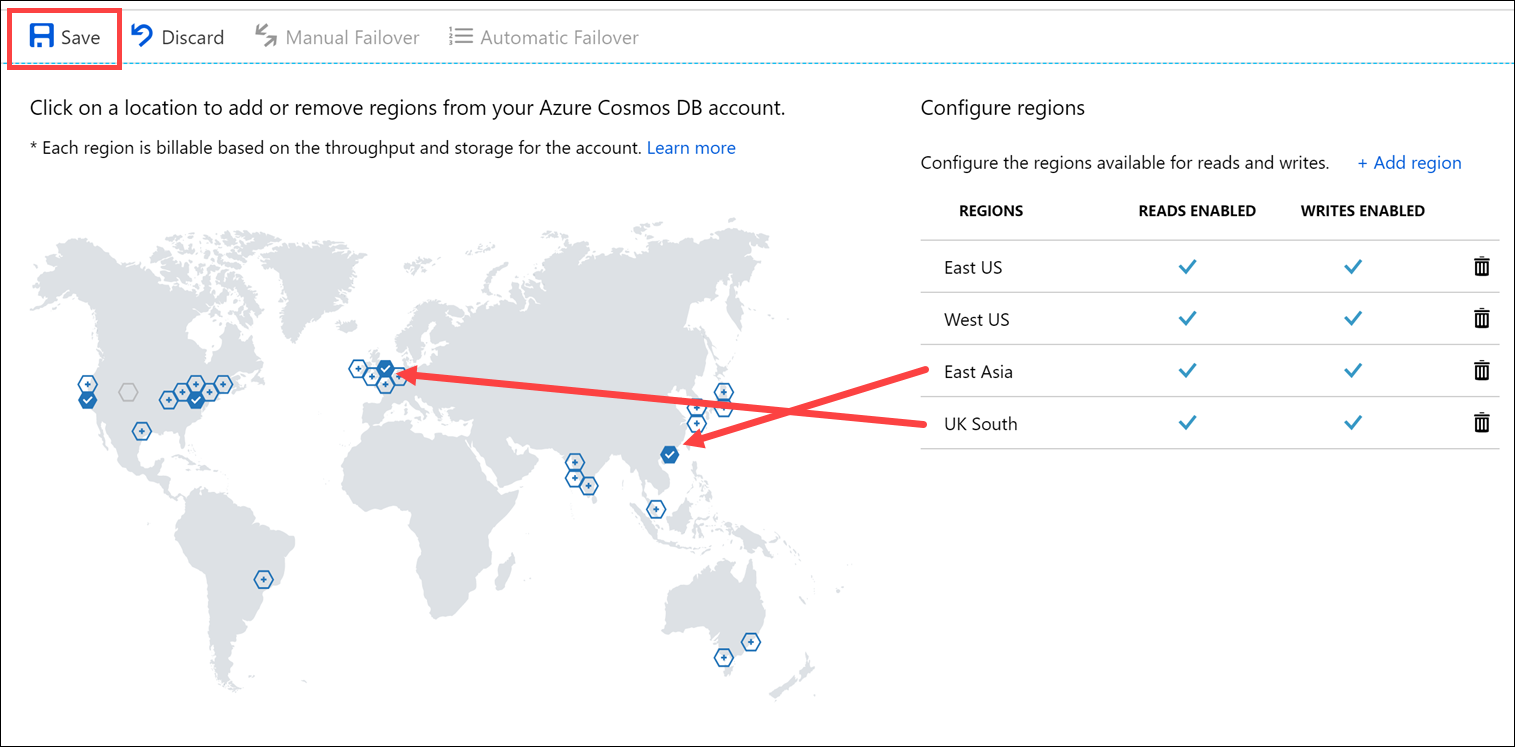
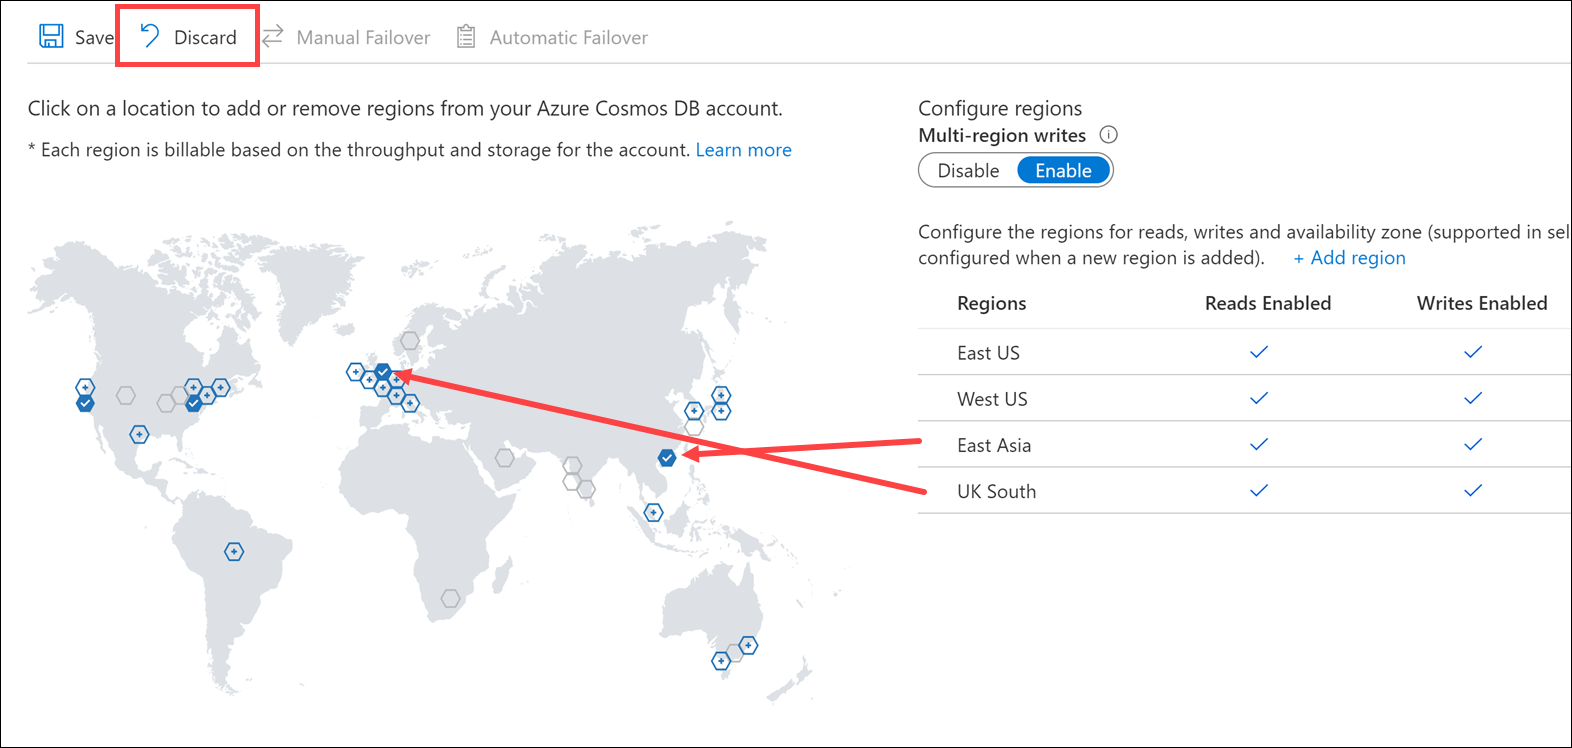
Pipeline section added

diff --git a/Hands-on lab/HOL step-by step - Cosmos DB real-time advanced analytics.md b/Hands-on lab/HOL step-by step - Cosmos DB real-time advanced analytics.md
@@ -50,10 +50,14 @@ Microsoft and the trademarks listed at <https://www.microsoft.com/en-us/legal/in
     - [Task 3: View the deployed model endpoint](#task-3-view-the-deployed-model-endpoint)
     - [Task 4: Test the predictive maintenance model](#task-4-test-the-predictive-maintenance-model)
     - [Task 5: Prepare batch scoring model](#task-5-prepare-batch-scoring-model)
-  - [Exercise 4: Scaling globally](#exercise-4-scaling-globally)
+  - [Exercise 4: Create Synapse Linked Services and copy pipeline](#exercise-4-create-synapse-linked-services-and-copy-pipeline)
+    - [Task 1: Open Synapse Studio](#task-1-open-synapse-studio)
+    - [Task 2: Create Azure Cosmos DB linked service](#task-2-create-azure-cosmos-db-linked-service)
+    - [Task 3: Create public data linked service](#task-3-create-public-data-linked-service)
+    - [Task 4: Create copy pipeline](#task-4-create-copy-pipeline)
+  - [Exercise 5: Scaling globally](#exercise-5-scaling-globally)
     - [Task 1: Distributing batch scored data globally using Cosmos DB](#task-1-distributing-batch-scored-data-globally-using-cosmos-db)
-    - [Task 2: Using an Azure Databricks job to batch score transactions on a schedule](#task-2-using-an-azure-databricks-job-to-batch-score-transactions-on-a-schedule)
-  - [Exercise 5: Reporting](#exercise-5-reporting)
+  - [Exercise 6: Reporting](#exercise-6-reporting)
     - [Task 1: Utilizing Power BI to summarize and visualize global fraud trends](#task-1-utilizing-power-bi-to-summarize-and-visualize-global-fraud-trends)
     - [Task 2: Creating dashboards in Azure Databricks](#task-2-creating-dashboards-in-azure-databricks)
   - [After the hands-on lab](#after-the-hands-on-lab)
@@ -474,31 +478,31 @@ In this exercise, you will use the data generator to send data to both Event Hub
 
     ![UK South is selected and highlighted in the location dropdown list.](media/add-region-uk-south.png 'UK South')
 
-34. Notice that the two new regions are highlighted on the world map, and each have both reads and writes enabled. Congratulations! You completed all the steps to write to and read from multiple regions around the world with Cosmos DB! Finally, select **Save** to save your changes.
+34. Notice that the two new regions are highlighted on the world map, and each have both reads and writes enabled. Congratulations! You completed all the steps to write to and read from multiple regions around the world with Cosmos DB! Finally, select **Discard** to discard your changes.
 
     ![Map showing newly added regions for Cosmos DB.](media/replicate-data-globally-map.png 'Cosmos DB region map')
 
-    > **Note**: You may have to wait several minutes for the change to take effect. In the meantime, you can feel free to continue and run the transaction generator. Cosmos DB can still ingest data as regions are being added. There should be no performance impact during this time or after the provisioning is complete.
+    > **Note**: We **do not** need to add the two new regions to complete this lab. However, if you do decide to save the changes, you may have to wait several minutes for the change to take effect. In the meantime, you can feel free to continue and run the transaction generator. Cosmos DB can still ingest data as regions are being added. There should be no performance impact during this time or after the provisioning is complete.
 
 35. Open Visual Studio and debug the TransactionGenerator project. Let it run for at least 2 minutes, or long enough to send 10,000 messages.
 
     ![The TransactionGenerator console shows event hubs overall running slower than Cosmos DB.](media/console-output-event-hubs-slower.png 'Console output')
 
-    Results will vary depending on machine specifications and network speeds, but overall, it will likely take longer to send the data to the three Event Hub instances than to Cosmos DB. You may also notice the Event Hubs pending queue filling up quite a bit more. Also notice that you did not have to make any code changes to write to the additional Cosmos DB regions.
+    Results will vary depending on machine specifications and network speeds, but overall, it will likely take longer to send the data to the three Event Hub instances than to Azure Cosmos DB. You may also notice the Event Hubs pending queue filling up quite a bit more. Also notice that you did not have to make any code changes to write to the additional Cosmos DB regions.
 
 36. Open each of the three Event Hubs namespaces you have created for this lab. You should see an equal number of messages that were sent to each. The graph is shown on the bottom of the Overview blade. Select the **Messages** metric above the graph to view the number of messages received. The screenshot below is of the UK South Event Hub:
 
     ![The Messages metric is selected for the UK South Event Hubs namespace.](media/uk-south-metrics.png 'Event Hubs Overview blade')
 
-37. View the data that was saved to Cosmos DB. Navigate to the Cosmos DB account for this lab in the Azure portal. Select **Data Explorer** on the left-hand menu. Expand the **Woodgrove** database and **transactions** collection, then select **Documents**. Select one of the documents from the list to view it. If you selected a more recently added document, notice that it contains a `ttl` value of 5,184,000 seconds, or 60 days. Also, there is a `collectionType` value of "Transaction". This allows consumers to query documents stored within the collection by the type. This is needed because a collection can contain any number of document types within, since it does not enforce any type of schema.
+37. View the data that was saved to Azure Cosmos DB. Navigate to the Azure Cosmos DB account for this lab in the Azure portal. Select **Data Explorer** on the left-hand menu. Expand the **Woodgrove** database and **transactions** collection, then select **Documents**. Select one of the documents from the list to view it. If you selected a more recently added document, notice that it contains a `ttl` value of 5,184,000 seconds, or 60 days. Also, there is a `collectionType` value of "Transaction". This allows consumers to query documents stored within the collection by the type. This is needed because a collection can contain any number of document types within, since it does not enforce any type of schema.
 
     ![Screenshot shows a document displayed within the Cosmos DB Data Explorer.](media/cosmos-db-document.png 'Cosmos DB Data Explorer')
 
-Given the requirements provided by the customer, Cosmos DB is the best choice for ingesting data for this PoC. Cosmos DB allows for more flexible, and longer, TTL (message retention) than Event Hubs, which is capped at 7 days, or 4 weeks when you contact Microsoft to request the extra capacity. Another option for Event Hubs is to use Event Hubs Capture to simultaneously save ingested data to Blob Storage or Azure Data Lake Store for longer retention and cold storage. However, this will require additional development, including automatic clearing of the data after a period of time. In addition, Woodgrove Bank wanted to be able to easily query this data during the 60-day message retention period, from a database. This could also be accomplished through Azure Data Warehouse using Polybase to query the files, but that requires yet another service they may otherwise not need, as well as additional development, administration, and cost.
+Given the requirements provided by the customer, Azure Cosmos DB is the best choice for ingesting data for this PoC. Azure Cosmos DB allows for more flexible, and longer, TTL (message retention) than Event Hubs, which is capped at 7 days, or 4 weeks when you contact Microsoft to request the extra capacity. Another option for Event Hubs is to use Event Hubs Capture to simultaneously save ingested data to Blob Storage or Azure Data Lake Store for longer retention and cold storage. However, this will require additional development, including automatic clearing of the data after a period of time. In addition, Woodgrove Bank wanted to be able to easily query and replay the transactional data during the 60-day message retention period, from a database. Setting the TTL on the documents to 60 days keeps them in the Azure Cosmos DB transactional store for 60 days, where they can replay the transactions flowing through the change feed. However, with the addition of the analytical store that is enabled through Synapse Link, all data gets automatically copied to a low-cost Azure storage account in columnar format, giving Woodgrove easy access to all their data, regardless of the transactional store's TTL value, from within Synapse Analytics. Since these queries are executed against the analytical store, they do not use any RU/s allocated to the transaction store.
 
-Finally, the requirement to synchronize/write the ingested data to multiple regions, which could grow at any time, makes Cosmos DB a more favorable choice. As you can see, there are more steps required to send data to additional regions using Event Hubs, since you have to provision new namespaces and Event Hub instances in each region. You would also have to account for all those instances on the consuming side, which we will not cover in this lab for sake of time. The ability to read/write to multiple regions by adding and removing them at will with no code or changes required is a great value that Cosmos DB adds. Plus, the fact that Cosmos DB will be used in this solution for serving batch-processed fraudulent data on a global scale means that Cosmos DB can be used to meet both the data ingest and delivery needs with no additional services, like Event Hubs, required.
+Finally, the requirement to synchronize/write the ingested data to multiple regions, which could grow at any time, makes Azure Cosmos DB a more favorable choice. As you can see, there are more steps required to send data to additional regions using Event Hubs, since you have to provision new namespaces and Event Hub instances in each region. You would also have to account for all those instances on the consuming side, which we will not cover in this lab for sake of time. The ability to read/write to multiple regions by adding and removing them at will with no code or changes required is a great value that Azure Cosmos DB adds. Plus, the fact that Azure Cosmos DB will be used in this solution for serving batch-processed fraudulent data on a global scale means that Azure Cosmos DB can be used to meet both the data ingest and delivery needs with no additional services, like Event Hubs, required.
 
-We will continue the lab using Cosmos DB for data ingestion.
+We will continue the lab using Azure Cosmos DB for data ingestion.
 
 ## Exercise 2: Understanding and preparing the transaction data
 
@@ -795,6 +799,8 @@ In this task, you will use a notebook to explore the transaction and account dat
 
 8. **Run** each cell in the notebook. You can select a cell and enter **Shift+Enter** to execute the cell and advance to the next one. Be sure to read and understand each cell and descriptions throughout the notebook.
 
+    > If you receive errors after executing the first two cells, rerun them again. The first cell performs `!pip install` commands, which take a few moments to apply to all the worker nodes.
+
 9. You may receive a prompt to sign in after executing the first cell. If you do, copy the code in your notebook and then select the link to authenticate.
 
     ![A prompt to perform interactive authentication.](media/azure-ml-notebook-authentication.png "Performing interactive authentication")
@@ -849,13 +855,137 @@ In this task, you will use a notebook to prepare a model used to detect suspicio
 
 3. **Run** each cell in the notebook. You can select a cell and enter **Shift+Enter** to execute the cell and advance to the next one. Be sure to read and understand each cell and descriptions throughout the notebook.
 
-## Exercise 4: Scaling globally
+4. **Copy the output of the last cell** of the notebook and save it to Notebook or similar text editor for a later exercise. The output contains information for connecting to your Azure Machine Learning workspace from a Synapse notebook. The output will look similar to the following:
+
+    ```python
+    subscription_id = '0a1b2c3d-0a1b-0a1b-0a1b-0a1b2c3d4e5f'
+    resource_group = 'hands-on-lab-SUFFIX'
+    workspace_name = 'amlworkspaceannSUFFIX'
+    workspace_region = 'eastus2'
+    ```
+
+## Exercise 4: Create Synapse Linked Services and copy pipeline
+
+Woodgrove has provided JSON files exported from their customer relationship management (CRM) system containing user account data that they want to load into Azure Cosmos DB. This account data needs to be loaded to the `metadata` container.
+
+To do this you will create a Synapse Analytics pipeline with a copy activity. Synapse Pipelines include over 90 built-in connectors, can load data by manual execution of the pipeline or by orchestration, supports common loading patterns, enables fully parallel loading into the data lake, SQL tables, Azure Cosmos DB, or any number of destinations. Synapse Pipelines share a code base with Azure Data Factory (ADF).
+
+### Task 1: Open Synapse Studio
+
+1. In the Azure Portal, navigate to the **Resource Group** created for this hands-on lab, then navigate to the **Synapse Analytics workspace** resource.
+
+    ![The Synapse workspace within the Resource Group is highlighted.](media/resource-group-hands-on-lab-synapse.png "The Synapse workspace within the Resource Group is highlighted.")
+
+2. In the Synapse Analytics workspace Overview blade, select **Launch Synapse Studio**.
+
+    ![The button is highlighted.](media/launch-synapse-studio.png "Launch Synapse Studio")
+
+### Task 2: Create Azure Cosmos DB linked service
+
+1. Navigate to the **Manage** hub.
+
+    ![Manage hub.](media/manage-hub.png "Manage hub")
+
+2. Select **Linked services** on the left-hand menu, then select **+ New**.
+
+    ![The new button is highlighted.](media/new-linked-service.png "Linked services")
+
+3. Select **Azure Cosmos DB (SQL API)**, then select **Continue** (make sure you do not select the MongoDB API).
+
+    ![The Cosmos DB SQL API is selected.](media/new-linked-service-cosmos.png "New linked service")
+
+4. In the New linked service form, complete the following, test the connection, and then select **Create**:
+
+   | Field                          | Value                                              |
+   | ------------------------------ | ------------------------------------------         |
+   | Name                   | _`WoodgroveCosmosDb`_                                   |
+   | Account selection method           | _select `From Azure subscription`_           |
+   | Azure subscription           | _select the subscription used for this lab_                         |
+   | Azure Cosmos DB account name                   | _select the account named `woodgrove-db-SUFFIX`_                                   |
+   | Database name           | _select `Woodgrove`_           |
+
+   ![The form is configured as described.](media/new-linked-service-cosmos-form.png "New linked service")
+
+### Task 3: Create public data linked service
+
+1. Within **Linked services**, select **+ New**.
+
+    ![The new button is highlighted.](media/new-linked-service2.png "Linked services")
+
+2. Select **Azure Blob Storage**, then select **Continue**.
+
+    ![The Blob Storage service is selected.](media/new-linked-service-blob.png "New linked service")
+
+3. In the New linked service form, complete the following, test the connection, and then select **Create**:
+
+   | Field                          | Value                                              |
+   | ------------------------------ | ------------------------------------------         |
+   | Name                   | _`publicdata`_                                   |
+   | Authentication method           | _select `SAS URI`_           |
+   | SAS URL           | `https://solliancepublicdata.blob.core.windows.net/mcw-cosmosdb`                         |
+   | SAS token                   | _enter `''`_                                   |
+
+   ![The form is configured as described.](media/new-linked-service-blob-form.png "New linked service")
+
+### Task 4: Create copy pipeline
+
+1. Navigate to the **Orchestrate** hub.
+
+    ![Orchestrate hub.](media/orchestrate-hub.png "Orchestrate hub")
+
+2. Select **+** then **Copy data tool**.
+
+    ![The copy data button is highlighted.](media/new-copy-data.png "Orchestrate")
+
+3. Enter **`CopyAccountData`** for the task name, then select **Next**.
+
+    ![The task name is highlighted.](media/copy-properties.png "Properties")
+
+4. Select the **publicdata** source data store, then select **Next**.
+
+    ![The publicdata source is highlighted.](media/copy-source.png "Source data store")
+
+5. Copy and paste `mcw-cosmosdb/accounts/` for the folder path (you cannot browse the public data source), check **Recursively**, then select **Next**.
+
+    ![The form is completed as described.](media/copy-input-folder.png "Choose the input file or folder")
+
+6. Select the `JSON` file format and check `Export as-is to JSON files or Cosmos DB collection`, then select **Next**.
+
+    ![The form is configured as described.](media/copy-file-format.png "File format settings")
+
+7. Select the **WoodgroveCosmosDb** destination data store, then select **Next**.
+
+    ![The Cosmos DB data store is selected.](media/copy-destination.png "Destination data store")
+
+8. Select the `metadata` container as the destination, then select **Next**.
+
+    ![The metadata container is selected.](media/copy-table-mapping.png "Table mapping")
+
+9. Expand the `Advanced settings` section under Settings, then set the degree of copy parallelism to **32**, then select **Next**.
+
+    ![The settings blade is shown.](media/copy-settings.png "Settings")
+
+10. In the Summary blade, select **Next**.
+
+    ![The summary blade is shown.](media/copy-summary.png "Summary")
+
+11. Once the deployment is complete, select **Monitor**.
+
+    ![The Monitor button is highlighted.](media/copy-monitor-button.png "Deployment complete")
+
+12. It will take between 3 and 5 minutes for the pipeline run to complete. You may need to refresh the list a few times to see the status change.
+
+    ![The pipeline run is displayed.](media/copy-pipeline-monitor.png "Pipeline runs")
+
+    > You may move on to the next exercise while the pipeline runs.
+
+## Exercise 5: Scaling globally
 
 When you set up Cosmos DB you enabled both geo-redundancy and multi-region writes, and in Exercise 1 you added more regions to your Cosmos DB instance.
 
 ![Map showing newly added regions for Cosmos DB.](media/replicate-data-globally-map.png 'Cosmos DB region map')
 
-In this exercise, you will score the batch transaction data stored in Databricks Delta with your trained ML model, and write any transactions that are marked as "suspicious" to Cosmos DB via the Azure Cosmos DB Spark Connector. Cosmos with automatically distribute that data globally, using the [default consistency level](https://docs.microsoft.com/en-us/azure/cosmos-db/consistency-levels). To learn more, see [Global data distribution with Azure Cosmos DB - under the hood](https://docs.microsoft.com/en-us/azure/cosmos-db/global-dist-under-the-hood).
+In this exercise, you will score the batch transaction data stored in Databricks Delta with your trained ML model, and write any transactions that are marked as "suspicious" to Cosmos DB via the Azure Cosmos DB Spark Connector. Cosmos with automatically distribute that data globally, using the [default consistency level](https://docs.microsoft.com/azure/cosmos-db/consistency-levels). To learn more, see [Global data distribution with Azure Cosmos DB - under the hood](https://docs.microsoft.com/azure/cosmos-db/global-dist-under-the-hood).
 
 ### Task 1: Distributing batch scored data globally using Cosmos DB
 
@@ -871,58 +1001,7 @@ In this task, you will use an Azure Databricks notebook to batch stored the data
 
 3. In the **1-Distributing-Data-Globally** notebook, follow the instructions to complete the remaining steps of this task.
 
-### Task 2: Using an Azure Databricks job to batch score transactions on a schedule
-
-In this task, you will create an Azure Databricks job, which will execute a notebook that performs batch scoring on transactions on an hourly schedule.
-
-1. Navigate to your Databricks workspace, select **Jobs** from the left-hand menu, and then select **+ Create Job**.
-
-   ![Jobs is highlighted in left-hand menu in Databricks, and the Create Job button is highlighted.](media/databricks-jobs.png 'Databricks Jobs')
-
-2. On the untitled job screen, complete the following steps:
-
-   - Enter a title, such as **Batch-Scoring-Job**.
-
-   - Select the **Select Notebook** link next to Task, and on the Select Notebook dialog select **Users --> Your user account --> CosmosDbAdvancedAnalytics --> Exercise 4** and then select the `2-Batch-Scoring-Job` notebook and select **OK**.
-
-     ![The Databricks Job Select Notebook dialog is displayed, with the 2-Batch-Scoring-Job notebook highlighted under CosmosDbAdvancedAnalytics/Exercise 4.](media/databricks-job-select-notebook-ex4.png 'Select Notebook')
-
-   - Select **Add** next to Dependent Libraries, navigate to the Shared folder, select the **azure-cosmosdb-spark** library and select **OK**.
-
-     ![The Add Dependent Library dialog is displayed with the azure-cosmosdb-spark library highlighted within the Shared folder.](media/databricks-job-add-dependent-library.png 'Add Dependent Library')
-
-   - Select **Edit** next to Cluster, and select the following:
-
-     - **Databricks Runtime Version**: Runtime 5.5 LTS (Scala 2.11, Spark 2.4.3)
-     - **Python Version**: 3
-     - **Worker Type**: Standard_DS4_v2
-     - **Workers**: 8
-     - **Driver Type**: Same as worker
-     - Expand Advanced and ensure that `spark.databricks.delta.preview.enabled true` is entered into the Spark Config box.
-
-       ![The Configure Cluster dialog for the jbo is displayed, with the values specified above entered into the dialog.](media/databricks-job-cluster-config.png 'Configure Cluster')
-
-   - Select **Confirm** to save the cluster configuration.
-
-   - Select **Edit** next to Schedule, and on the Schedule Job dialog set the schedule to Every hour starting at a minute value that is close to the current time, so you can see it triggered in a reasonable amount of time. Select your time zone, and select **Confirm**.
-
-   ![The Schedule Job dialog is displayed, with the schedule set to every hour starting at 00:55.](media/databricks-job-schedule-job.png 'Schedule Job dialog')
-
-3. Your final job screen should look something like the following:
-
-   ![Screen shot of the Transactions-Batch-Scoring job.](media/databricks-job-batch-scoring.png 'Transactions Batch Scoring job')
-
-4. Select **< All Jobs** to return to the Jobs list when complete.
-
-5. While waiting for your job to start, select **Workspace** from the left-hand menu, and navigate to the `2-Batch-Scoring-Job` notebook under the Exercise 4 folder.
-
-6. Open the notebook, and take a few minutes to understand the steps that are being used to perform the batch scoring process. As you will see, they are almost identical to the steps you've gone through already in preparing and transforming the transaction data in the previous task.
-
-7. You can monitor your job progress by selecting **Clusters** from the left-hand menu in Databricks, and then selecting **Job Run** for your Job Cluster. This will display the notebook, and you can view execution times and results within the notebook.
-
-   ![The Databricks Clusters screen is displayed, with Job Run highlighted for the job cluster.](media/databricks-job-clusters-job-run.png 'Clusters dialog')
-
-## Exercise 5: Reporting
+## Exercise 6: Reporting
 
 Duration: 30 minutes
 
